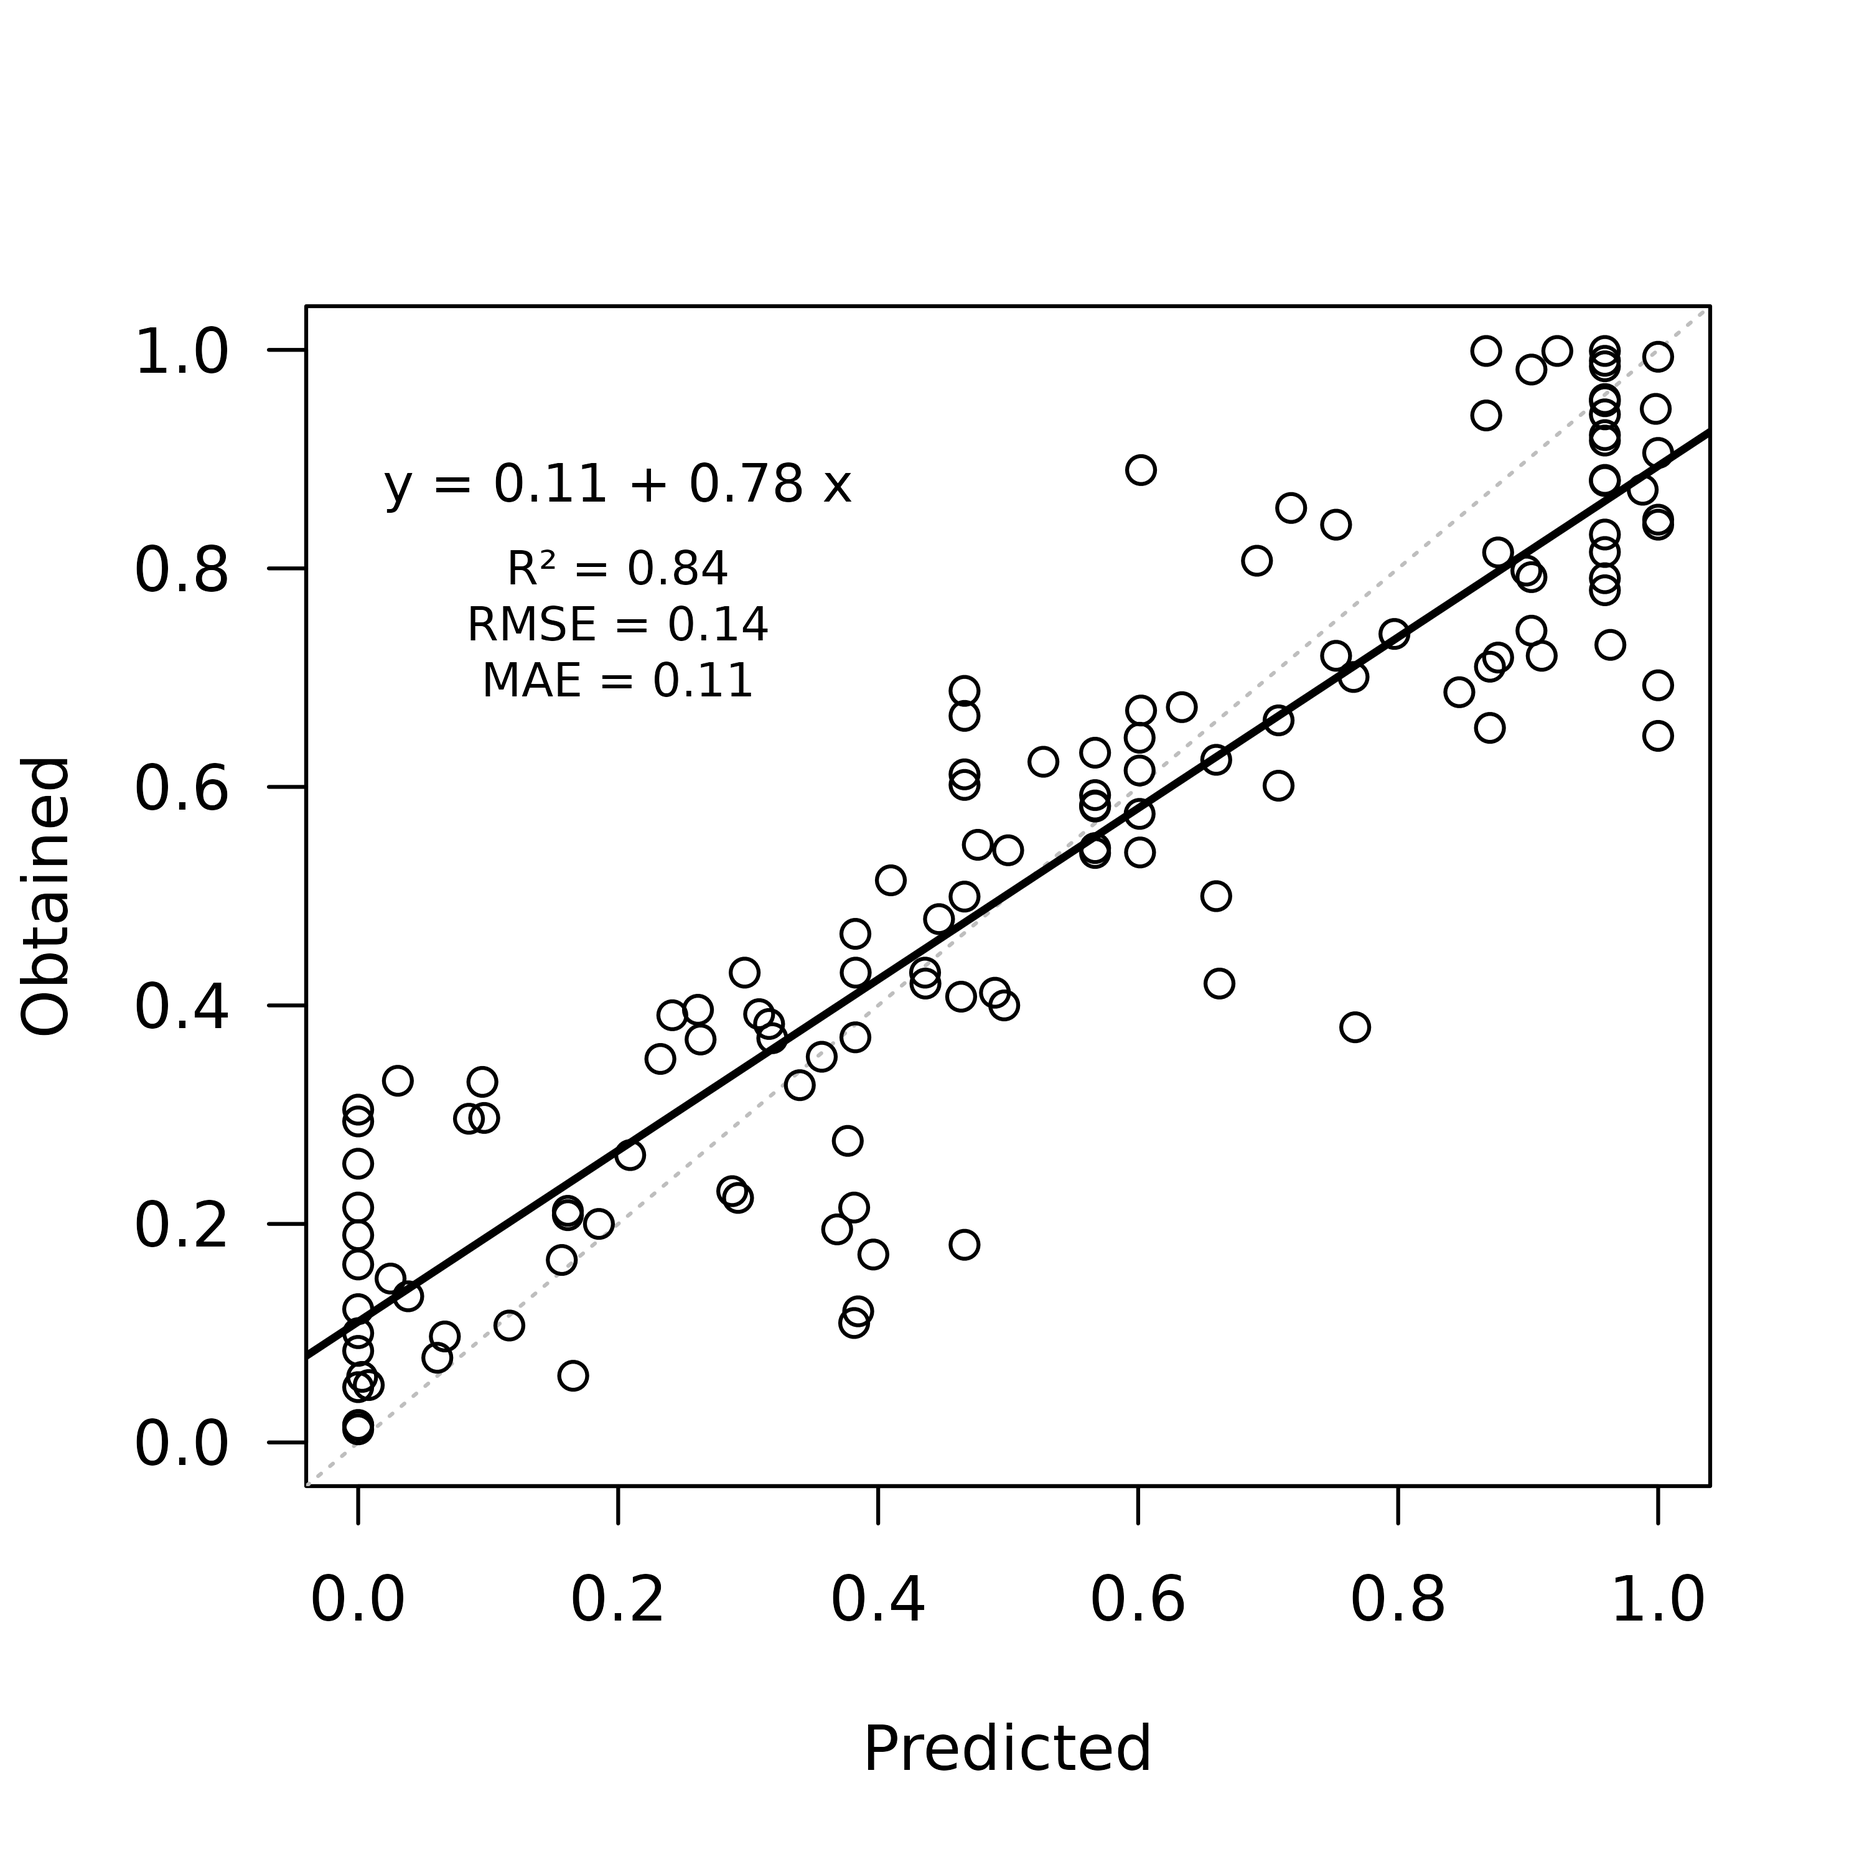
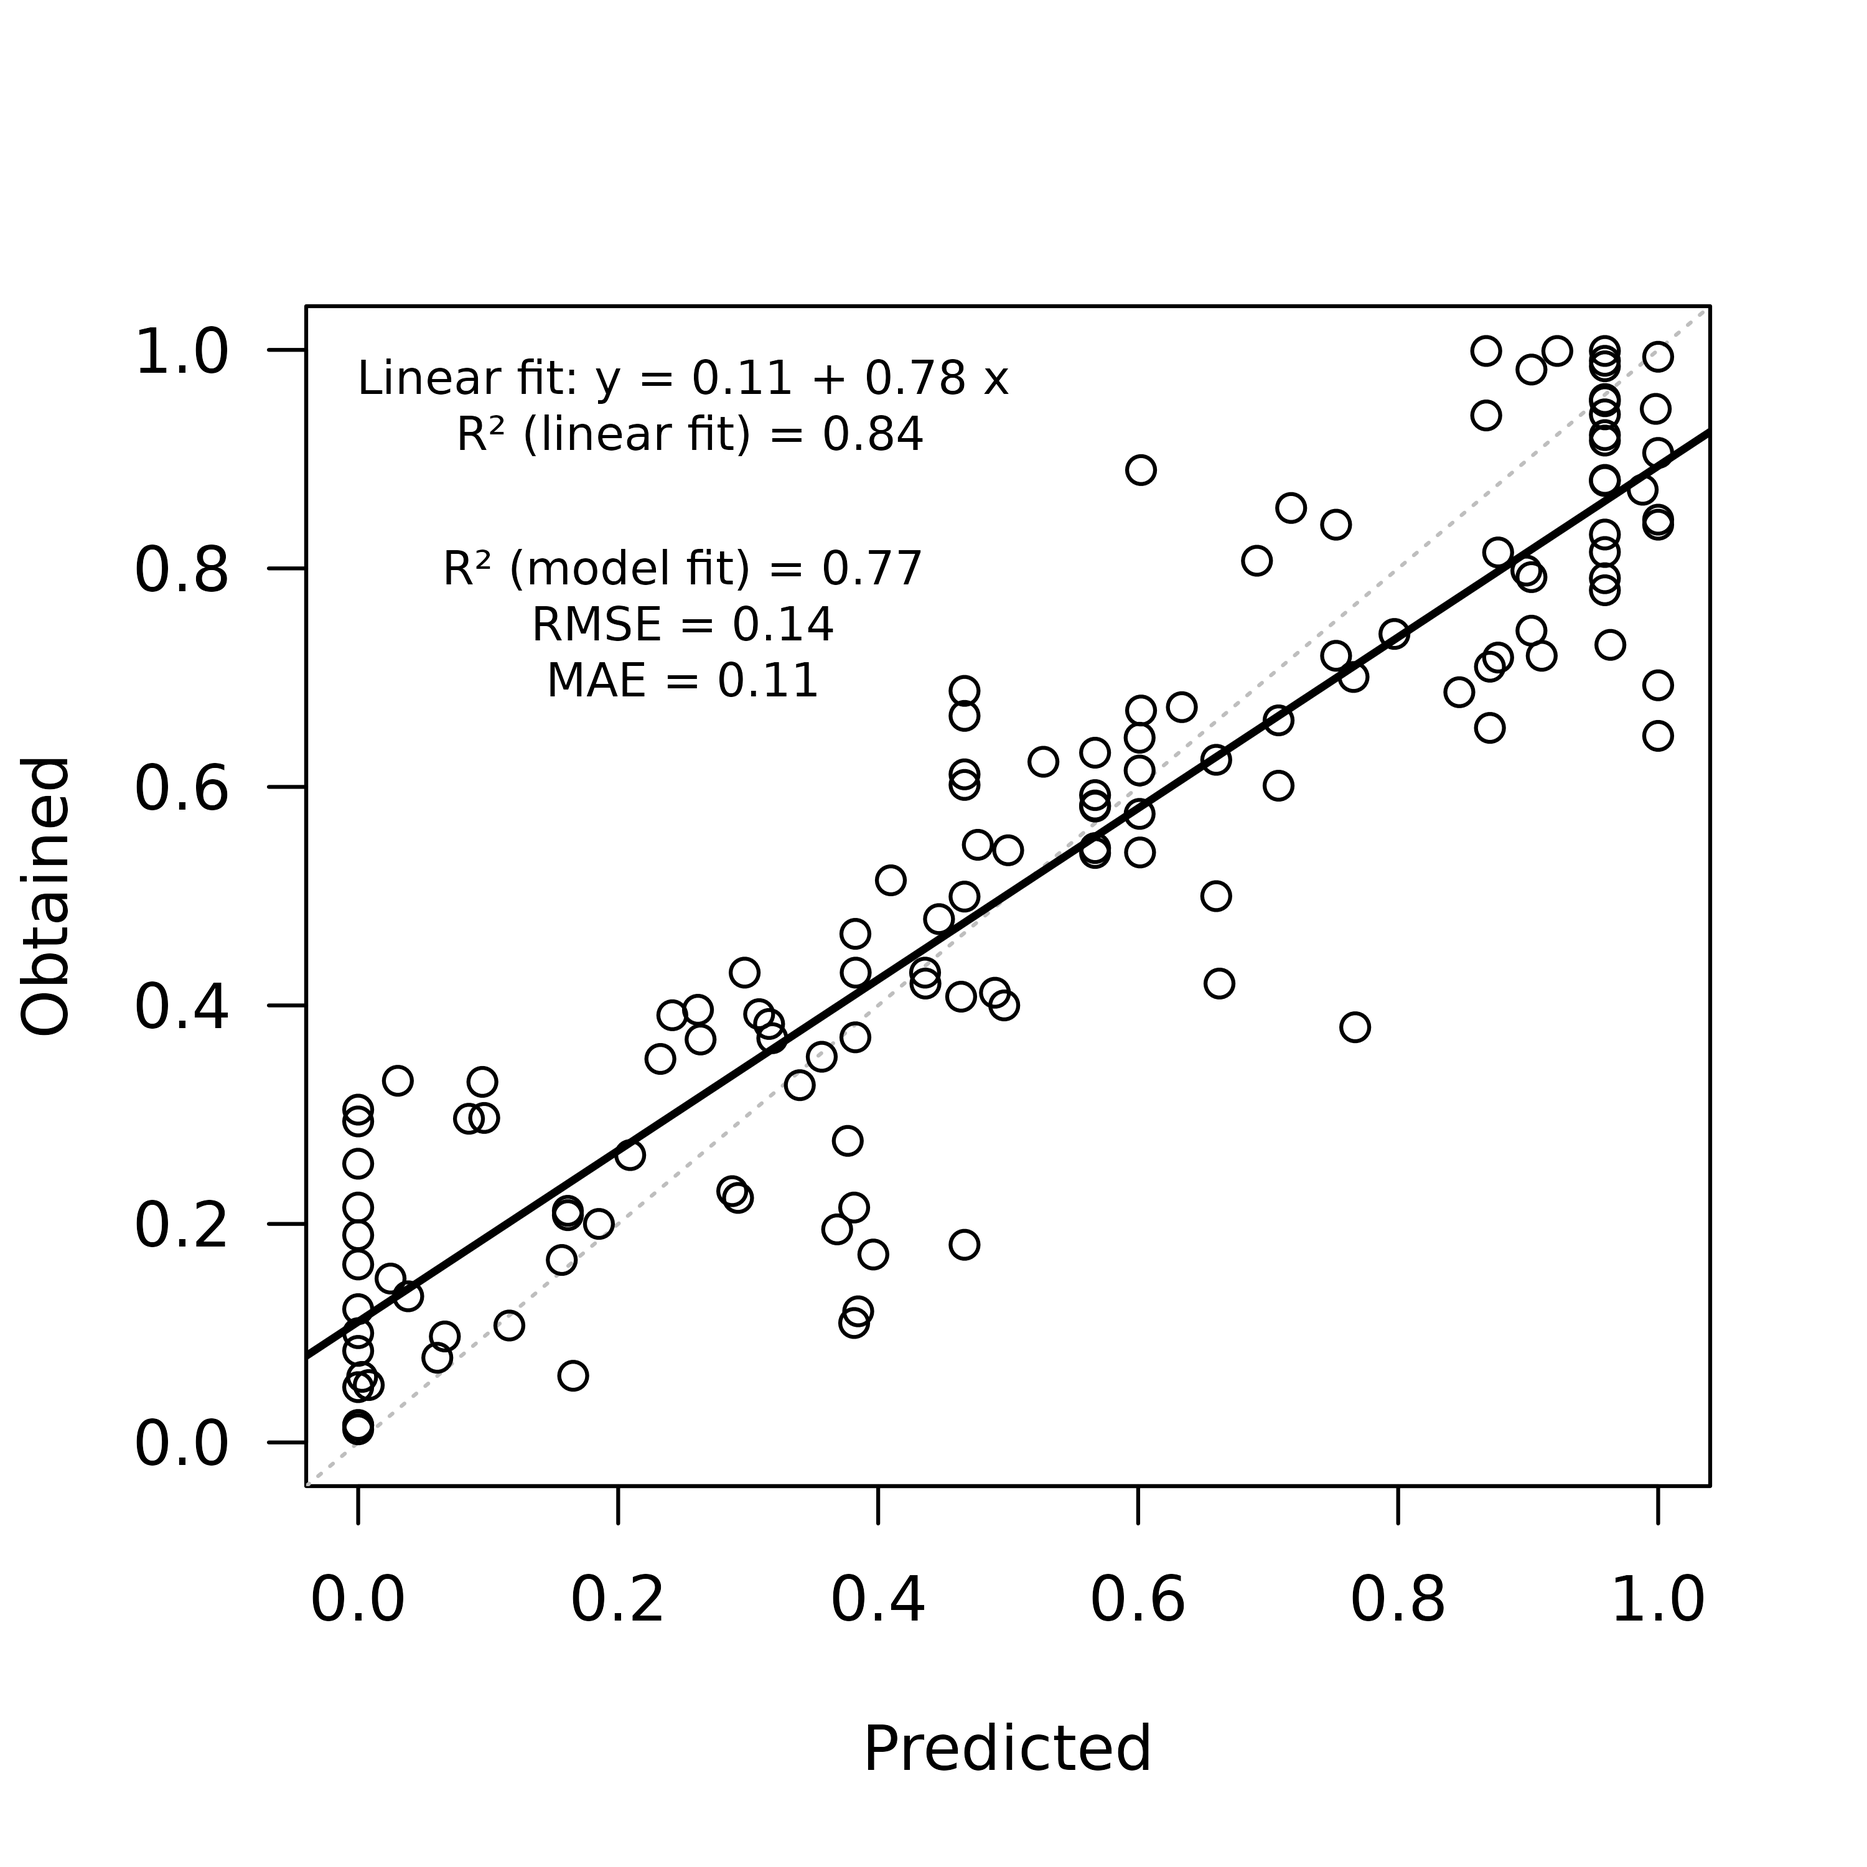
Deploying to gh-pages from @ jpisklak/SiGN@5f299111b084fa8e92abfe9d0f4ee235c6b439ef 🚀

Changed region(s): [[0.186, 0.186, 0.465, 0.372], [0.434, 0.186, 0.527, 0.248], [0.465, 0.279, 0.496, 0.31]]

diff --git a/articles/suboptimal_data.html b/articles/suboptimal_data.html
@@ -123,20 +123,32 @@ compared to predictions from the SiGN model.</p>
 <p>Before plotting the comparisons, it will be helpful to first compute
 some additional statistics to aid in model assessment:</p>
 <ol style="list-style-type: decimal">
-<li><p>An <span class="math inline">\(R^2\)</span> value to quantify the
-proportion of variance in the observed data accounted for by the SiGN
-model’s predictions.</p></li>
-<li><p>The RMSE (root mean squared error) and MAE (mean absolute error),
-which both reflect the average discrepancy between predicted and
-observed values, with RMSE placing greater emphasis on larger
-errors.</p></li>
+<li><p>A <strong>linear regression model</strong> fitted to the observed
+vs predicted values, to provide a visual summary of their relationship
+alongside the 1:1 reference line.</p></li>
+<li><p>An <span class="math inline">\(R^2\)</span> value from the above
+regression, quantifying how well a straight line fits the relationship
+between the SiGN model’s predictions and the observed data. This is the
+statistic reported by Dunn et al. (2024, see <a href="#residual-r2">note</a> at the bottom of this document).</p></li>
+<li><p>An additional <span class="math inline">\(R^2\)</span> value,
+computed directly from the residuals of the SiGN model, which reflects
+the true proportion of variance in the observed data explained by the
+model.</p></li>
+<li><p>The <strong>RMSE (root mean squared error)</strong> and
+<strong>MAE (mean absolute error)</strong>, which both capture the
+average prediction error — with RMSE giving greater weight to larger
+deviations.</p></li>
 </ol>
 <div class="sourceCode" id="cb3"><pre class="downlit sourceCode r">
 <code class="sourceCode R"><span><span class="co"># Model Assessment</span></span>
 <span><span class="co">#-------------------------------------------------------------------------------</span></span>
 <span><span class="co"># Fit a linear model comparing observed vs predicted</span></span>
 <span><span class="va">reg</span> <span class="op">&lt;-</span> <span class="fu"><a href="https://rdrr.io/r/stats/lm.html" class="external-link">lm</a></span><span class="op">(</span><span class="va">subopt_avian</span><span class="op">$</span><span class="va">cp</span> <span class="op">~</span> <span class="va">preds</span><span class="op">$</span><span class="va">cp</span><span class="op">)</span></span>
-<span><span class="va">r_sq</span> <span class="op">&lt;-</span> <span class="fu"><a href="https://rdrr.io/r/base/summary.html" class="external-link">summary</a></span><span class="op">(</span><span class="va">reg</span><span class="op">)</span><span class="op">$</span><span class="va">r.squared</span></span>
+<span><span class="va">Rsq_lin_fit</span> <span class="op">&lt;-</span> <span class="fu"><a href="https://rdrr.io/r/base/summary.html" class="external-link">summary</a></span><span class="op">(</span><span class="va">reg</span><span class="op">)</span><span class="op">$</span><span class="va">r.squared</span></span>
+<span></span>
+<span><span class="co"># Residual-based R2</span></span>
+<span><span class="va">Rsq_mod_fit</span> <span class="op">&lt;-</span> <span class="fl">1</span> <span class="op">-</span> <span class="fu"><a href="https://rdrr.io/r/base/sum.html" class="external-link">sum</a></span><span class="op">(</span><span class="op">(</span><span class="va">subopt_avian</span><span class="op">$</span><span class="va">cp</span> <span class="op">-</span> <span class="va">preds</span><span class="op">$</span><span class="va">cp</span><span class="op">)</span><span class="op">^</span><span class="fl">2</span><span class="op">)</span> <span class="op">/</span> </span>
+<span>  <span class="fu"><a href="https://rdrr.io/r/base/sum.html" class="external-link">sum</a></span><span class="op">(</span><span class="op">(</span><span class="va">subopt_avian</span><span class="op">$</span><span class="va">cp</span> <span class="op">-</span> <span class="fu"><a href="https://rdrr.io/r/base/mean.html" class="external-link">mean</a></span><span class="op">(</span><span class="va">subopt_avian</span><span class="op">$</span><span class="va">cp</span><span class="op">)</span><span class="op">)</span><span class="op">^</span><span class="fl">2</span><span class="op">)</span></span>
 <span></span>
 <span><span class="co"># Root Mean Squared Error (RMSE)</span></span>
 <span><span class="va">rmse</span> <span class="op">&lt;-</span> <span class="fu"><a href="https://rdrr.io/r/base/MathFun.html" class="external-link">sqrt</a></span><span class="op">(</span><span class="fu"><a href="https://rdrr.io/r/base/mean.html" class="external-link">mean</a></span><span class="op">(</span><span class="op">(</span><span class="va">subopt_avian</span><span class="op">$</span><span class="va">cp</span> <span class="op">-</span> <span class="va">preds</span><span class="op">$</span><span class="va">cp</span><span class="op">)</span><span class="op">^</span><span class="fl">2</span><span class="op">)</span><span class="op">)</span></span>
@@ -152,14 +164,18 @@ regression.</p>
 <span><span class="co">#-------------------------------------------------------------------------------</span></span>
 <span><span class="co"># Format regression equation and annotations</span></span>
 <span><span class="va">reg_eqn</span> <span class="op">&lt;-</span> <span class="fu"><a href="https://rdrr.io/r/base/sprintf.html" class="external-link">sprintf</a></span><span class="op">(</span></span>
-<span>  <span class="st">"y = %.2f + %.2f x\n"</span>,</span>
+<span>  <span class="st">"Linear fit: y = %.2f + %.2f x\n"</span>,</span>
 <span>  <span class="va">reg</span><span class="op">$</span><span class="va">coefficients</span><span class="op">[</span><span class="fl">1</span><span class="op">]</span>, <span class="va">reg</span><span class="op">$</span><span class="va">coefficients</span><span class="op">[</span><span class="fl">2</span><span class="op">]</span></span>
 <span><span class="op">)</span></span>
-<span><span class="va">r_sq_text</span> <span class="op">&lt;-</span> <span class="fu"><a href="https://rdrr.io/r/base/sprintf.html" class="external-link">sprintf</a></span><span class="op">(</span><span class="st">"R² = %.2f"</span>, <span class="va">r_sq</span><span class="op">)</span></span>
-<span><span class="va">rmse_text</span> <span class="op">&lt;-</span> <span class="fu"><a href="https://rdrr.io/r/base/sprintf.html" class="external-link">sprintf</a></span><span class="op">(</span><span class="st">"RMSE = %.2f"</span>, <span class="va">rmse</span><span class="op">)</span></span>
-<span><span class="va">mae_text</span> <span class="op">&lt;-</span> <span class="fu"><a href="https://rdrr.io/r/base/sprintf.html" class="external-link">sprintf</a></span><span class="op">(</span><span class="st">"MAE = %.2f"</span>, <span class="va">mae</span><span class="op">)</span></span>
+<span><span class="va">Rsq_lin_fit_txt</span> <span class="op">&lt;-</span> <span class="fu"><a href="https://rdrr.io/r/base/sprintf.html" class="external-link">sprintf</a></span><span class="op">(</span><span class="st">"R² (linear fit) = %.2f"</span>, <span class="va">Rsq_lin_fit</span><span class="op">)</span></span>
 <span></span>
-<span><span class="va">stats</span> <span class="op">&lt;-</span> <span class="fu"><a href="https://rdrr.io/r/base/paste.html" class="external-link">paste</a></span><span class="op">(</span><span class="va">r_sq_text</span>, <span class="va">rmse_text</span>, <span class="va">mae_text</span>, sep <span class="op">=</span> <span class="st">"\n"</span><span class="op">)</span></span>
+<span></span>
+<span><span class="va">Rsq_mod_fit_txt</span> <span class="op">&lt;-</span> <span class="fu"><a href="https://rdrr.io/r/base/sprintf.html" class="external-link">sprintf</a></span><span class="op">(</span><span class="st">"R² (model fit) = %.2f"</span>, <span class="va">Rsq_mod_fit</span><span class="op">)</span></span>
+<span><span class="va">rmse_txt</span> <span class="op">&lt;-</span> <span class="fu"><a href="https://rdrr.io/r/base/sprintf.html" class="external-link">sprintf</a></span><span class="op">(</span><span class="st">"RMSE = %.2f"</span>, <span class="va">rmse</span><span class="op">)</span></span>
+<span><span class="va">mae_txt</span> <span class="op">&lt;-</span> <span class="fu"><a href="https://rdrr.io/r/base/sprintf.html" class="external-link">sprintf</a></span><span class="op">(</span><span class="st">"MAE = %.2f"</span>, <span class="va">mae</span><span class="op">)</span></span>
+<span></span>
+<span><span class="va">stats_lin</span> <span class="op">&lt;-</span> <span class="fu"><a href="https://rdrr.io/r/base/paste.html" class="external-link">paste</a></span><span class="op">(</span><span class="va">reg_eqn</span>, <span class="va">Rsq_lin_fit_txt</span><span class="op">)</span></span>
+<span><span class="va">stats_mod</span> <span class="op">&lt;-</span> <span class="fu"><a href="https://rdrr.io/r/base/paste.html" class="external-link">paste</a></span><span class="op">(</span><span class="va">Rsq_mod_fit_txt</span>, <span class="va">rmse_txt</span>, <span class="va">mae_txt</span>, sep <span class="op">=</span> <span class="st">"\n"</span><span class="op">)</span></span>
 <span></span>
 <span><span class="co"># Draw Plot</span></span>
 <span><span class="fu"><a href="https://rdrr.io/r/graphics/plot.default.html" class="external-link">plot</a></span><span class="op">(</span><span class="va">preds</span><span class="op">$</span><span class="va">cp</span>, <span class="va">subopt_avian</span><span class="op">$</span><span class="va">cp</span>,</span>
@@ -179,8 +195,8 @@ regression.</p>
 <span><span class="fu"><a href="https://rdrr.io/r/graphics/abline.html" class="external-link">abline</a></span><span class="op">(</span>a <span class="op">=</span> <span class="va">reg</span><span class="op">$</span><span class="va">coefficients</span><span class="op">[</span><span class="fl">1</span><span class="op">]</span>, b <span class="op">=</span> <span class="va">reg</span><span class="op">$</span><span class="va">coefficients</span><span class="op">[</span><span class="fl">2</span><span class="op">]</span>, lwd <span class="op">=</span> <span class="fl">2</span><span class="op">)</span></span>
 <span></span>
 <span><span class="co"># Annotation</span></span>
-<span><span class="fu"><a href="https://rdrr.io/r/graphics/text.html" class="external-link">text</a></span><span class="op">(</span>x <span class="op">=</span> <span class="fl">0.2</span>, y <span class="op">=</span> <span class="fl">0.85</span>, labels <span class="op">=</span> <span class="va">reg_eqn</span>, cex <span class="op">=</span> <span class="fl">0.85</span><span class="op">)</span></span>
-<span><span class="fu"><a href="https://rdrr.io/r/graphics/text.html" class="external-link">text</a></span><span class="op">(</span>x <span class="op">=</span> <span class="fl">0.2</span>, y <span class="op">=</span> <span class="fl">0.75</span>, labels <span class="op">=</span> <span class="va">stats</span>, cex <span class="op">=</span> <span class="fl">0.75</span><span class="op">)</span></span></code></pre></div>
+<span><span class="fu"><a href="https://rdrr.io/r/graphics/text.html" class="external-link">text</a></span><span class="op">(</span>x <span class="op">=</span> <span class="fl">0.25</span>, y <span class="op">=</span> <span class="fl">0.95</span>, labels <span class="op">=</span> <span class="va">stats_lin</span>, cex <span class="op">=</span> <span class="fl">0.75</span><span class="op">)</span></span>
+<span><span class="fu"><a href="https://rdrr.io/r/graphics/text.html" class="external-link">text</a></span><span class="op">(</span>x <span class="op">=</span> <span class="fl">0.25</span>, y <span class="op">=</span> <span class="fl">0.75</span>, labels <span class="op">=</span> <span class="va">stats_mod</span>, cex <span class="op">=</span> <span class="fl">0.75</span><span class="op">)</span></span></code></pre></div>
 <p><img src="suboptimal_data_files/figure-html/unnamed-chunk-5-1.png" width="80%" style="display: block; margin: auto;"></p>
 <p>The RMSE (0.14) and MAE (0.11) indicate that the model’s predictions
 deviate from the observed values by approximately 11 to 14 percentage
@@ -188,6 +204,20 @@ points on average. This reflects a reasonably good fit to the
 <code>subopt_avian</code> data set and aligns with expectations, given
 the inherent variability across studies, species, and procedural
 differences.</p>
+<blockquote>
+<p><strong>Note:</strong><span id="residual-r2"></span> In Dunn et
+al. (2024), we reported an <span class="math inline">\(R^2\)</span>
+value derived from a linear regression of observed outcomes on the
+model’s predicted values. While this is a common practice in applied
+modelling, it does not directly quantify how much variance the model
+itself explains in the data. Had we more fully appreciated this
+distinction at the time, we would have opted for a residual-based <span class="math inline">\(R^2\)</span> instead. In this vignette, we include
+both the regression-based and residual-based <span class="math inline">\(R^2\)</span> values: the former to reproduce the
+original analysis, and the latter to provide a more appropriate measure
+of model fit. This reflects our commitment to a transparent, evolving
+methodology and hopefully encourages best practices for evaluating
+predictive models.</p>
+</blockquote>
 <div class="section level2">
 <h2 id="references">References<a class="anchor" aria-label="anchor" href="#references"></a>
 </h2>
